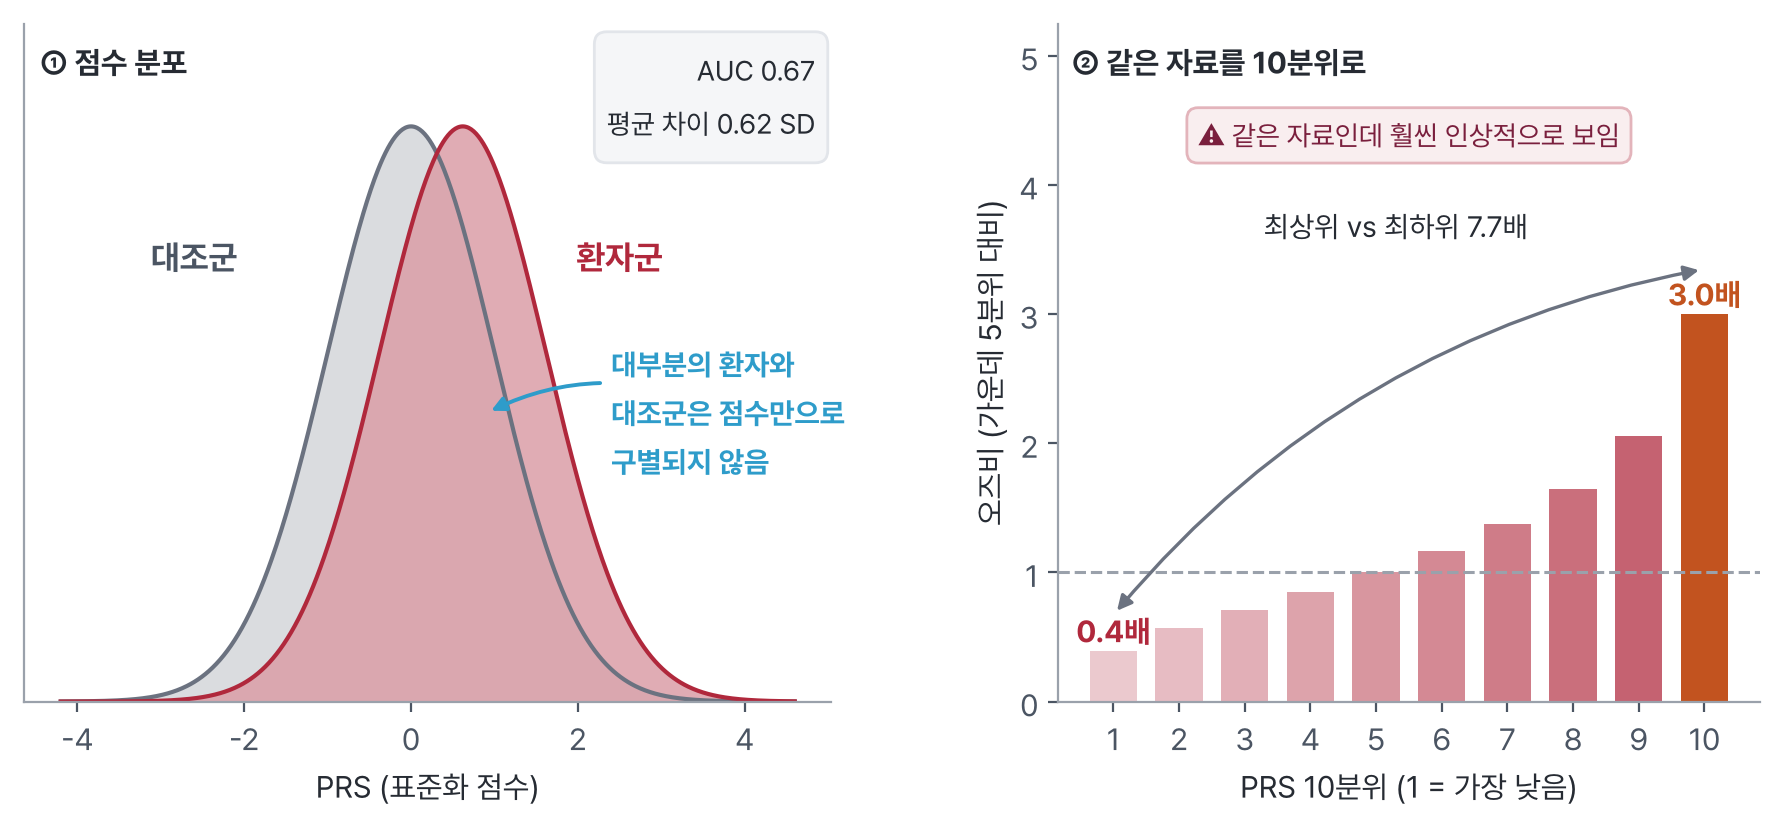
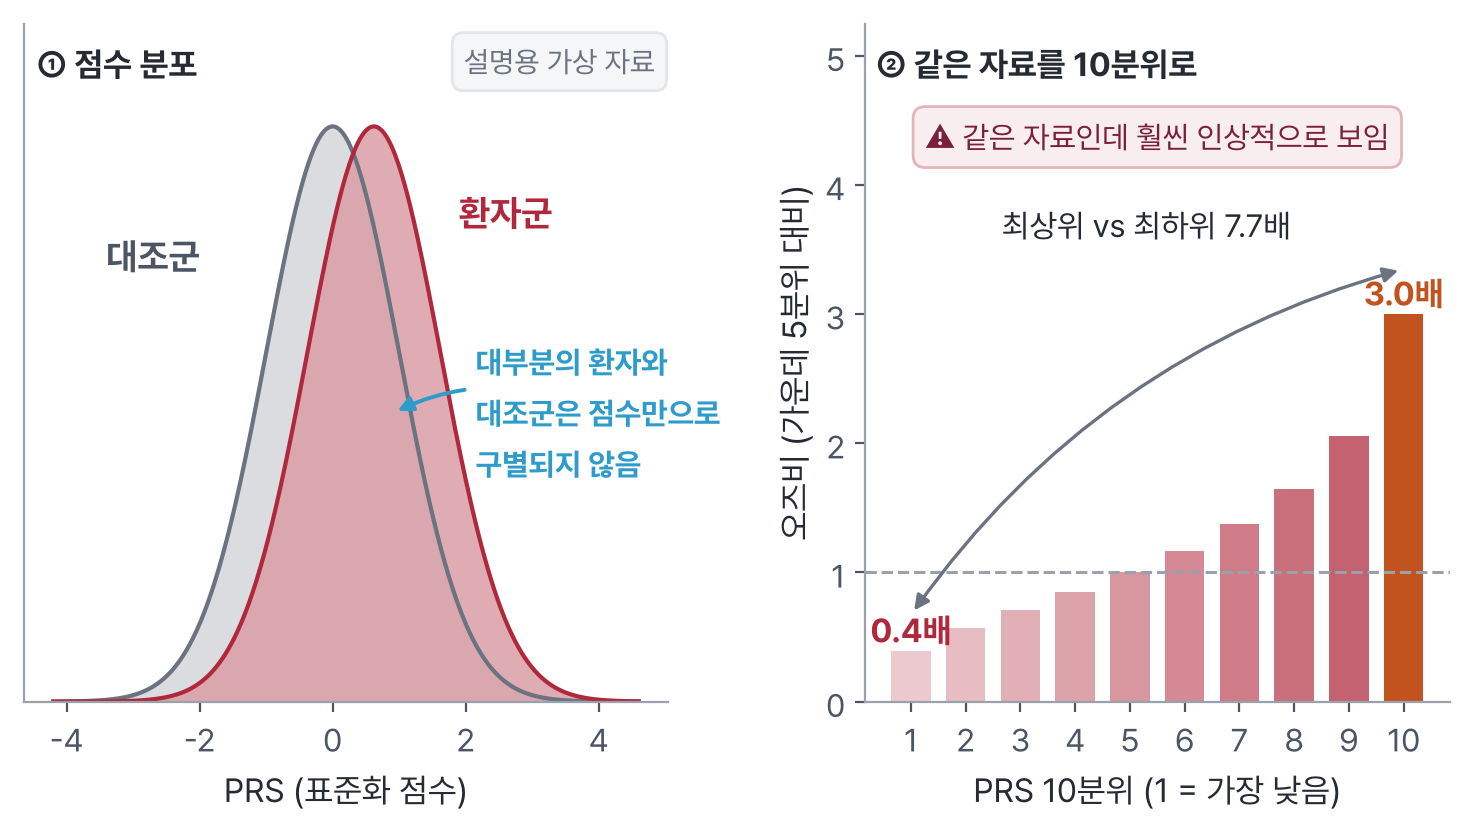
Add W4 concept figures in Korean
Effect size × frequency map (§1.1), LD around a GWAS peak (§2.3), the
chopstick-gene confounding example (§2.4), a relative vs absolute risk icon
array and the PRS overlap plot (§3.3), and clopidogrel activation by CYP2C19
(§4.2). Figures are ~7–9 in wide with 10.5–13 pt text so they stay legible in
the page column. The PRS plot drops AUC (not taught) for an 'illustrative data'
note.

Claude-Session: https://claude.ai/code/session_013CY8uBCr4DnGjUKSp6qsd8

diff --git a/scripts/figs/w04_prs_overlap.py b/scripts/figs/w04_prs_overlap.py
@@ -1,29 +1,27 @@
 # W4 §3.3 좋은 PRS도 환자와 대조군이 거의 겹침 + 같은 자료를 10분위로 보면 (BI_for_Biomed W2 prs_distribution을 다시 그림)
 from medfig import *
-from math import erf, sqrt
 from statistics import NormalDist
 
+plt.rcParams.update({"xtick.labelsize": 11.5, "ytick.labelsize": 11.5})
 nd = NormalDist()
 d = 0.62                                   # mean difference in SD
 x = np.linspace(-4.2, 4.6, 600)
 pdf = lambda m: np.exp(-(x - m) ** 2 / 2) / np.sqrt(2 * np.pi)
-auc = nd.cdf(d / sqrt(2))
 
-fig, (a1, a2) = plt.subplots(1, 2, figsize=(11.2, 4.4), gridspec_kw={"wspace": 0.3, "width_ratios": [1.15, 1]})
+fig, (a1, a2) = plt.subplots(1, 2, figsize=(9.2, 4.4), gridspec_kw={"wspace": 0.32, "width_ratios": [1.1, 1]})
 a1.fill_between(x, pdf(0), color=mix("#6B7280", 0.25), lw=0)
 a1.plot(x, pdf(0), color="#6B7280", lw=1.5)
 a1.fill_between(x, pdf(d), color=mix(CRIMSON, 0.45), lw=0, alpha=0.85)
 a1.plot(x, pdf(d), color=CRIMSON, lw=1.5)
-a1.set_yticks([]); a1.set_xlabel("PRS (표준화 점수)", fontsize=11)
-a1.text(-2.6, 0.30, "대조군", color="#4B5563", fontsize=12, fontweight="bold", ha="center")
-a1.text(2.5, 0.30, "환자군", color=CRIMSON, fontsize=12, fontweight="bold", ha="center")
-a1.text(0.02, 0.97, "① 점수 분포", transform=a1.transAxes, fontsize=11, fontweight="bold", color=TEXT, va="top")
-a1.annotate("대부분의 환자와\n대조군은 점수만으로\n구별되지 않음", xy=(0.9, 0.2), xytext=(2.4, 0.2),
-            fontsize=10.5, fontweight="bold", color=BLUE, ha="left", va="center", linespacing=1.4,
+a1.set_yticks([]); a1.set_xlabel("PRS (표준화 점수)", fontsize=12)
+a1.text(-2.7, 0.30, "대조군", color="#4B5563", fontsize=13, fontweight="bold", ha="center")
+a1.text(2.6, 0.33, "환자군", color=CRIMSON, fontsize=13, fontweight="bold", ha="center")
+a1.text(0.02, 0.97, "① 점수 분포", transform=a1.transAxes, fontsize=12, fontweight="bold", color=TEXT, va="top")
+a1.annotate("대부분의 환자와\n대조군은 점수만으로\n구별되지 않음", xy=(0.9, 0.2), xytext=(2.15, 0.2),
+            fontsize=11, fontweight="bold", color=BLUE, ha="left", va="center", linespacing=1.4,
             arrowprops=dict(arrowstyle="-|>", color=BLUE, lw=1.4, connectionstyle="arc3,rad=0.25"))
-a1.text(0.98, 0.97, f"AUC {auc:.2f}\n평균 차이 {d:.2f} SD", transform=a1.transAxes, ha="right", va="top",
-        fontsize=10, color=TEXT, linespacing=1.6,
-        bbox=dict(boxstyle="round,pad=0.45", fc=FAINT, ec=LINE))
+a1.text(0.98, 0.97, "설명용 가상 자료", transform=a1.transAxes, ha="right", va="top",
+        fontsize=10.5, color=TEXT2, bbox=dict(boxstyle="round,pad=0.4", fc=FAINT, ec=LINE))
 a1.set_ylim(0, 0.47)
 
 dec = np.arange(1, 11)
@@ -32,15 +30,15 @@ orr = np.exp(d * z); orr = orr / orr[4]
 cols = [mix(CRIMSON, 0.25 + 0.06 * i) for i in range(9)] + [ORANGE]
 a2.bar(dec, orr, color=cols, width=0.72)
 a2.axhline(1, color="#9AA1AB", lw=1.1, ls="--")
-a2.set_xticks(dec); a2.set_xlabel("PRS 10분위 (1 = 가장 낮음)", fontsize=11)
-a2.set_ylabel("오즈비 (가운데 5분위 대비)", fontsize=11)
-a2.text(10, orr[-1] + 0.07, f"{orr[-1]:.1f}배", ha="center", fontsize=11, fontweight="bold", color=ORANGE)
-a2.text(1, orr[0] + 0.07, f"{orr[0]:.1f}배", ha="center", fontsize=11, fontweight="bold", color=CRIMSON)
+a2.set_xticks(dec); a2.set_xlabel("PRS 10분위 (1 = 가장 낮음)", fontsize=12)
+a2.set_ylabel("오즈비 (가운데 5분위 대비)", fontsize=12)
+a2.text(10, orr[-1] + 0.07, f"{orr[-1]:.1f}배", ha="center", fontsize=12, fontweight="bold", color=ORANGE)
+a2.text(1, orr[0] + 0.07, f"{orr[0]:.1f}배", ha="center", fontsize=12, fontweight="bold", color=CRIMSON)
 a2.annotate("", xy=(1, orr[0] + 0.28), xytext=(10, orr[-1] + 0.35),
             arrowprops=dict(arrowstyle="<|-|>", color="#6B7280", lw=1.2, connectionstyle="arc3,rad=0.18"))
-a2.text(5.3, orr[-1] * 1.2, f"최상위 vs 최하위 {orr[-1] / orr[0]:.1f}배", ha="center", fontsize=10.5, color=TEXT)
-a2.text(0.02, 0.97, "② 같은 자료를 10분위로", transform=a2.transAxes, fontsize=11, fontweight="bold", color=TEXT, va="top")
+a2.text(5.3, orr[-1] * 1.2, f"최상위 vs 최하위 {orr[-1] / orr[0]:.1f}배", ha="center", fontsize=11.5, color=TEXT)
+a2.text(0.02, 0.97, "② 같은 자료를 10분위로", transform=a2.transAxes, fontsize=12, fontweight="bold", color=TEXT, va="top")
 a2.text(0.5, 0.86, "⚠ 같은 자료인데 훨씬 인상적으로 보임", transform=a2.transAxes, ha="center", va="top",
-        fontsize=10, color=WINE, bbox=dict(boxstyle="round,pad=0.4", fc=mix(CRIMSON, 0.08), ec=mix(CRIMSON, 0.35)))
+        fontsize=11, color=WINE, bbox=dict(boxstyle="round,pad=0.4", fc=mix(CRIMSON, 0.08), ec=mix(CRIMSON, 0.35)))
 a2.set_ylim(0, orr[-1] * 1.75)
 save(fig, "../../assets/img/w04/prs_overlap.png")

diff --git a/scripts/figs/w04_ld_hit.py b/scripts/figs/w04_ld_hit.py
@@ -1,0 +1,49 @@
+# W4 §2.3 Hit ≠ 원인: GWAS 탑 하나 = 함께 물려 내려오는(LD) 변이 수십 개 + 가장 가까운 유전자 ≠ 원인 유전자
+# (BI_for_Biomed W2 locus_ld를 단순하게 다시 그림, 설명용 가상 자료)
+from medfig import *
+
+plt.rcParams.update({"xtick.labelsize": 11, "ytick.labelsize": 11})
+rng = np.random.default_rng(21)
+lo, hi, lead, n = 0, 900, 330, 900
+pos = np.sort(rng.uniform(lo, hi, n))
+r2 = np.clip(np.exp(-((np.abs(pos - lead) / 55) ** 1.7)) * rng.uniform(0.75, 1.0, n), 0, 1)
+logp = np.clip(r2 * 13.5 + rng.gamma(1.0, 0.85, n), 0.02, None)
+i = np.argmin(np.abs(pos - lead)); logp[i] = logp.max() + 0.7; r2[i] = 1.0
+
+fig, (ax, gx) = plt.subplots(2, 1, figsize=(8.4, 5.6), sharex=True,
+                             gridspec_kw={"height_ratios": [3.0, 1.2], "hspace": 0.06})
+bins = [(0.8, 1.01, CRIMSON, "0.8–1.0"), (0.6, 0.8, ORANGE, "0.6–0.8"), (0.4, 0.6, AMBER, "0.4–0.6"),
+        (0.2, 0.4, mix(AMBER, 0.45), "0.2–0.4"), (-0.01, 0.2, "#C4C7CC", "0.2 미만")]
+for a, b, c, _ in bins[::-1]:
+    m = (r2 > a) & (r2 <= b) & (np.arange(n) != i)
+    ax.scatter(pos[m], logp[m], s=26, color=c, lw=0.3, edgecolor="white", zorder=3)
+ax.scatter([pos[i]], [logp[i]], s=160, marker="D", color=WINE, ec="white", lw=1.4, zorder=6)
+ax.text(pos[i] + 22, logp[i] + 0.1, "가장 유의한 변이", fontsize=11.5, fontweight="bold", color=WINE, ha="left")
+thr = -np.log10(5e-8)
+ax.axhline(thr, color=TEXT2, lw=1.1, ls="--")
+ax.text(hi - 5, thr + 0.3, "5×10⁻⁸", ha="right", fontsize=10.5, color=TEXT2)
+ax.set_ylabel("−log₁₀(p)", fontsize=12); ax.set_ylim(0, 17.8); ax.set_xlim(lo, hi)
+ax.spines["bottom"].set_visible(False); ax.tick_params(bottom=False)
+# LD legend (top-left, clear of the peak)
+ax.text(12, 16.7, "가장 유의한 변이와의 LD (r²)", fontsize=10.5, color=TEXT, fontweight="semibold")
+for k, (_, _, c, lab) in enumerate(bins):
+    ax.scatter([24], [15.3 - k * 1.25], s=46, color=c, ec="white", lw=0.3)
+    ax.text(44, 15.3 - k * 1.25, lab, fontsize=10.5, va="center", color=TEXT)
+ax.text(hi - 10, 17.0, "함께 물려 내려온 변이들이\n모두 유의하게 나옴\n→ 이 그림만으로는\n어느 것이 원인인지 모름",
+        ha="right", va="top", fontsize=11.5, color=BLUE, fontweight="bold", linespacing=1.5)
+
+# gene track
+genes = [("유전자 A", 40, 170, 1), ("유전자 B", 280, 420, 1), ("유전자 C", 560, 650, -1)]
+for nm, s, e, strand in genes:
+    gx.add_patch(mp.FancyArrow(s if strand > 0 else e, 0.62, (e - s) * strand, 0, width=0.17,
+                               head_width=0.38, head_length=18, length_includes_head=True,
+                               fc=WINE if nm == "유전자 B" else mix(TEXT, 0.75), ec="none"))
+    gx.text((s + e) / 2, 0.02, nm, ha="center", fontsize=11, color=TEXT,
+            fontweight="bold" if nm == "유전자 B" else "regular")
+gx.text(hi - 10, 0.95, "가장 가까운 유전자(B)가\n원인이라는 보장은 없음\n(예: 1p13 → SORT1)",
+        ha="right", va="center", fontsize=10.5, color=TEXT2, linespacing=1.4)
+gx.set_ylim(-0.3, 1.6); gx.set_yticks([])
+for sp in ("left", "top", "right"):
+    gx.spines[sp].set_visible(False)
+gx.set_xlabel("염색체 위치 (kb, 설명용)", fontsize=12)
+save(fig, "../../assets/img/w04/ld_hit.png")

diff --git a/scripts/figs/w04_effect_frequency.py b/scripts/figs/w04_effect_frequency.py
@@ -1,0 +1,55 @@
+# W4 §1.1 효과 크기 × 빈도: 희귀질환 변이와 복합질환 변이가 놓이는 자리
+# (BI_for_Biomed W2 allelic_architecture를 장의 2×2 표에 맞춰 다시 그림)
+from medfig import *
+
+fig, ax = new(8.2, 5.4)
+ox, oy, X1, Y1 = 1.0, 0.8, 8.05, 5.3
+G = "#9AA1AB"
+arrow(ax, ox, oy, X1, oy, color=G, lw=1.4, ms=11)
+arrow(ax, ox, oy, ox, Y1, color=G, lw=1.4, ms=11)
+label(ax, (ox + X1) / 2, 0.3, "대립유전자 빈도", fs=13, w="bold")
+label(ax, ox + 0.3, 0.52, "드묾", fs=11, c=TEXT2)
+label(ax, X1 - 0.3, 0.52, "흔함", fs=11, c=TEXT2)
+label(ax, 0.3, (oy + Y1) / 2, "효과 크기", fs=13, w="bold", rotation=90)
+label(ax, 0.78, oy + 0.3, "작음", fs=11, c=TEXT2, ha="right")
+label(ax, 0.78, Y1 - 0.3, "큼", fs=11, c=TEXT2, ha="right")
+
+
+def dot(x, y, c, r=0.09):
+    ax.add_patch(mp.Circle((x, y), r, fc=c, ec="white", lw=1, zorder=4))
+
+
+BW, BH = 3.15, 1.95
+# 왼쪽 위: 드물고 효과 큼 = 단일유전자 질환
+c = CAT[0]
+box(ax, 1.25, 3.15, BW, BH, fc=mix(c, 0.10), ec=c, lw=1.4, r=0.12)
+label(ax, 1.45, 4.8, "단일유전자 질환의 원인 변이", fs=13, w="bold", c=c, ha="left")
+label(ax, 1.45, 4.45, "드물고 효과가 큼 → W2·W3", fs=11, c=TEXT2, ha="left")
+for (y, t) in [(3.95, "SCN1A (W2·W3의 아이)"), (3.5, "LDLR (가족성 고콜레스테롤혈증)")]:
+    dot(1.62, y, c)
+    label(ax, 1.82, y, t, fs=10.5, ha="left")
+
+# 오른쪽 아래: 흔하고 효과 작음 = 복합질환 GWAS
+c = CAT[1]
+box(ax, 4.75, 1.0, BW, BH, fc=mix(c, 0.10), ec=c, lw=1.4, r=0.12)
+label(ax, 4.95, 2.65, "복합질환 GWAS 변이", fs=13, w="bold", c=c, ha="left")
+label(ax, 4.95, 2.3, "흔하고 효과가 작음 → 이 장", fs=11, c=TEXT2, ha="left")
+dot(5.12, 1.88, c)
+label(ax, 5.32, 1.88, "9p21 (관상동맥질환)", fs=10.5, ha="left", w="semibold")
+rng = np.random.default_rng(4)
+for x, y in zip(rng.uniform(5.05, 7.65, 30), rng.uniform(1.4, 1.66, 30)):
+    dot(x, y, mix(c, 0.55), r=0.05)  # patches, not scatter: medfig.save crops by patch extents
+label(ax, 7.75, 1.08, "수백–수천 개", fs=10, c=TEXT2, ha="right", va="bottom")
+
+# 오른쪽 위: 흔하면서 효과 큼 = 드묾
+c = CAT[2]
+label(ax, 4.85, 4.85, "흔하면서 효과가 큼 → 드묾", fs=12, w="bold", c=c, ha="left")
+dot(5.05, 4.3, c)
+label(ax, 5.25, 4.3, "APOE ε4 (알츠하이머병)", fs=11, ha="left", w="semibold", c=c)
+label(ax, 4.85, 3.7, "자연선택이 이런 변이를 줄여 왔다고 봄", fs=10.5, c=TEXT2, ha="left")
+
+# 왼쪽 아래: 드물고 효과 작음
+box(ax, 1.25, 1.0, BW, BH, fc=FAINT, ec="#C4C7CC", lw=1.2, r=0.12, ls=(0, (4, 3)))
+label(ax, 1.25 + BW / 2, 2.15, "드물고 효과도 작음", fs=12, w="bold", c=TEXT2)
+label(ax, 1.25 + BW / 2, 1.75, "→ 찾기 어려움", fs=11, c=TEXT2)
+save(fig, "../../assets/img/w04/effect_frequency.png")

diff --git a/scripts/figs/w04_population_structure.py b/scripts/figs/w04_population_structure.py
@@ -1,0 +1,43 @@
+# W4 §2.4 집단 구조라는 교란: "젓가락 유전자" 사고실험 (Hamer & Sirota 2000)
+# 조상이 변이 빈도와 젓가락 사용을 함께 정함 → 변이와 젓가락이 연관처럼 보임 (사람 수는 설명용)
+from medfig import *
+
+fig, ax = new(8.8, 4.8)
+
+
+def person(x, y, c, s=1.0):
+    ax.add_patch(mp.Circle((x, y + 0.34 * s), 0.1 * s, fc=c, ec="none", zorder=3))
+    box(ax, x - 0.14 * s, y - 0.05 * s, 0.28 * s, 0.28 * s, fc=c, ec="none", r=0.09 * s, z=3)
+
+
+# ── 왼쪽: 교란 삼각형 ──
+box(ax, 1.4, 3.55, 1.9, 0.85, fc=WINE, ec="none", r=0.1)
+label(ax, 2.35, 4.12, "조상", fs=14, w="bold", c="white")
+label(ax, 2.35, 3.8, "(ancestry)", fs=11, c="white")
+for (x, name, sub, c) in [(0.05, "변이 X", "빈도", CAT[0]), (2.75, "젓가락 사용", "문화", CAT[1])]:
+    box(ax, x, 1.25, 1.9, 0.85, fc=mix(c, 0.12), ec=c, lw=1.4, r=0.1)
+    label(ax, x + 0.95, 1.83, name, fs=13, w="bold", c=c)
+    label(ax, x + 0.95, 1.5, sub, fs=11, c=TEXT2)
+arrow(ax, 1.95, 3.5, 1.15, 2.15, color=mix(WINE, 0.7), lw=1.8)
+arrow(ax, 2.75, 3.5, 3.55, 2.15, color=mix(WINE, 0.7), lw=1.8)
+label(ax, 1.3, 2.95, "조상마다\n빈도가 다름", fs=10.5, ha="right", linespacing=1.4)
+label(ax, 3.4, 2.95, "조상마다\n문화가 다름", fs=10.5, ha="left", linespacing=1.4)
+arrow(ax, 2.0, 1.67, 2.7, 1.67, color=BLUE, lw=1.8, ls=(0, (3, 2)))
+label(ax, 2.35, 0.82, "GWAS에서는 '젓가락 유전자'처럼 보임", fs=11.5, w="bold", c=BLUE)
+label(ax, 2.35, 0.47, "변이가 젓가락질을 만든 것이 아님", fs=10.5, c=TEXT2)
+
+# ── 오른쪽: 두 군의 조상 구성 ──
+x0, sp = 5.2, 0.36
+for g, (name, n_ea) in enumerate([("젓가락을 쓰는 사람 (환자군 역할)", 8), ("쓰지 않는 사람 (대조군 역할)", 2)]):
+    y = 4.3 - g * 1.3
+    label(ax, x0 - 0.12, y, name, fs=11, w="semibold", ha="left")
+    for k in range(10):
+        person(x0 + 0.05 + k * sp, y - 0.75, WINE if k < n_ea else "#C4C7CC")
+person(x0 + 0.05, 1.5, WINE, s=0.8)
+label(ax, x0 + 0.27, 1.62, "동아시아계", fs=10.5, ha="left")
+person(x0 + 1.6, 1.5, "#C4C7CC", s=0.8)
+label(ax, x0 + 1.82, 1.62, "다른 조상", fs=10.5, ha="left")
+label(ax, x0 - 0.12, 0.97, "두 군의 조상 구성이 다르면 →", fs=11, ha="left")
+label(ax, x0 - 0.12, 0.66, "조상마다 빈도가 다른 변이가 모두 '유의'", fs=11, ha="left")
+label(ax, x0 - 0.12, 0.28, "해결: 조상 성분 보정 · 같은 집단끼리 비교", fs=10.5, c=TEXT2, ha="left")
+save(fig, "../../assets/img/w04/population_structure.png")

diff --git a/scripts/figs/w04_clopidogrel.py b/scripts/figs/w04_clopidogrel.py
@@ -1,0 +1,40 @@
+# W4 §4.2 클로피도그렐 = 전구약물. CYP2C19가 활성형으로 바꿔야 혈소판을 억제
+# 정상 대사형(*1/*1) vs 대사 저하형(*2/*2), 권고는 장의 CPIC 표(Lee 2022)와 같게
+from medfig import *
+
+fig, ax = new(8.4, 5.1)
+W, H, gap, x0 = 1.78, 1.05, 0.38, 0.1
+steps = [("클로피도그렐", "전구약물"), ("CYP2C19", ""), ("활성형", ""), ("혈소판 억제", "")]
+cols = [WINE, CRIMSON, ORANGE, AMBER]
+rows = [
+    ("정상 대사형", "*1/*1", [None, "간에서 활성화", 7, "충분 → 혈전 예방"]),
+    ("대사 저하형", "*2/*2", [None, "기능 없음 ✕", 1, "부족 → 혈전 위험"]),
+]
+for r, (name, gt, subs) in enumerate(rows):
+    y = 3.35 - r * 1.75
+    label(ax, x0, y + H + 0.3, name, fs=13, w="bold", ha="left")
+    label(ax, x0 + 1.2, y + H + 0.3, gt, fs=12, c=TEXT2, ha="left")
+    for k, ((title, sub0), c) in enumerate(zip(steps, cols)):
+        x = x0 + k * (W + gap)
+        broken = (r == 1 and k == 1)
+        weak = (r == 1 and k == 3)
+        cc = BLUE if broken else c
+        box(ax, x, y, W, H, fc=mix(cc, 0.12), ec=cc, lw=1.5, r=0.1, ls=(0, (4, 3)) if weak else "-")
+        label(ax, x + W / 2, y + 0.72, title, fs=13, w="bold", c=cc)
+        if k == 2:  # active drug molecules
+            n = subs[k]
+            for j in range(n):
+                ax.add_patch(mp.Circle((x + W / 2 - (n - 1) * 0.1 + j * 0.2, y + 0.32), 0.065,
+                                       fc=c, ec="none", zorder=4))
+        else:
+            sub = subs[k] if subs[k] is not None else sub0
+            label(ax, x + W / 2, y + 0.32, sub, fs=11, c=BLUE if broken else TEXT2,
+                  w="bold" if broken else "regular")
+        if k < 3:
+            arrow(ax, x + W + 0.05, y + H / 2, x + W + gap - 0.05, y + H / 2,
+                  color="#C4C7CC" if (r == 1 and k >= 1) else "#9AA1AB", lw=1.8, ms=10)
+label(ax, x0, 0.85, "*2 = splicing 이상으로 기능 있는 효소를 만들지 못하는 대립유전자 (한국인 약 28%)",
+      fs=10.5, c=TEXT2, ha="left")
+label(ax, x0, 0.42, "CPIC: 대사 저하형 → 클로피도그렐을 피하고, 금기가 없으면 prasugrel 또는 ticagrelor",
+      fs=11, ha="left", w="semibold")
+save(fig, "../../assets/img/w04/clopidogrel.png")

diff --git a/scripts/figs/w04_absolute_risk.py b/scripts/figs/w04_absolute_risk.py
@@ -1,0 +1,36 @@
+# W4 §3.3 상대위험 vs 절대위험: 10년 위험 4% → "평균의 1.5배" = 6% (장의 설명용 숫자)
+from medfig import *
+
+fig, ax = new(7.6, 5.7)
+G = "#D5D8DD"
+SP = 0.31
+
+
+def person(x, y, c, s=0.27):
+    ax.add_patch(mp.Circle((x, y + 0.42 * s), 0.17 * s, fc=c, ec="none", zorder=3))
+    box(ax, x - 0.24 * s, y - 0.2 * s, 0.48 * s, 0.42 * s, fc=c, ec="none", r=0.14 * s, z=3)
+
+
+def grid(x0, y0, n_base, n_extra):
+    """100 people, filled row by row from the bottom-left."""
+    for k in range(100):
+        r, c = divmod(k, 10)
+        col = CRIMSON if k < n_base else (BLUE if k < n_base + n_extra else G)
+        person(x0 + c * SP, y0 + r * SP, col)
+
+
+L, R, Y0 = 0.25, 4.6, 1.5
+grid(L, Y0, 4, 0)
+grid(R, Y0, 4, 2)
+cx = lambda x0: x0 + 4.5 * SP
+label(ax, cx(L), 5.25, "같은 나이·성별 평균", fs=13, w="bold")
+label(ax, cx(L), 4.92, "10년 안에 100명 중 4명 (4%)", fs=11.5, c=TEXT2)
+label(ax, cx(R), 5.25, "PRS 결과 \"평균의 1.5배\"", fs=13, w="bold")
+label(ax, cx(R), 4.92, "10년 안에 100명 중 6명 (6%)", fs=11.5, c=TEXT2)
+arrow(ax, L + 9 * SP + 0.35, 2.85, R - 0.35, 2.85, color="#9AA1AB", lw=1.6)
+
+mid = (cx(L) + cx(R)) / 2
+label(ax, mid, 1.0, "상대위험: 1.5배 → \"50% 증가\"", fs=12.5, w="semibold", c=CRIMSON)
+label(ax, mid, 0.62, "절대위험 차이: 100명 중 2명 (2%p)", fs=12.5, w="bold", c=BLUE)
+label(ax, mid, 0.22, "같은 결과도 어떻게 말하느냐에 따라 크게도, 작게도 들림", fs=11, c=TEXT2)
+save(fig, "../../assets/img/w04/absolute_risk.png")
